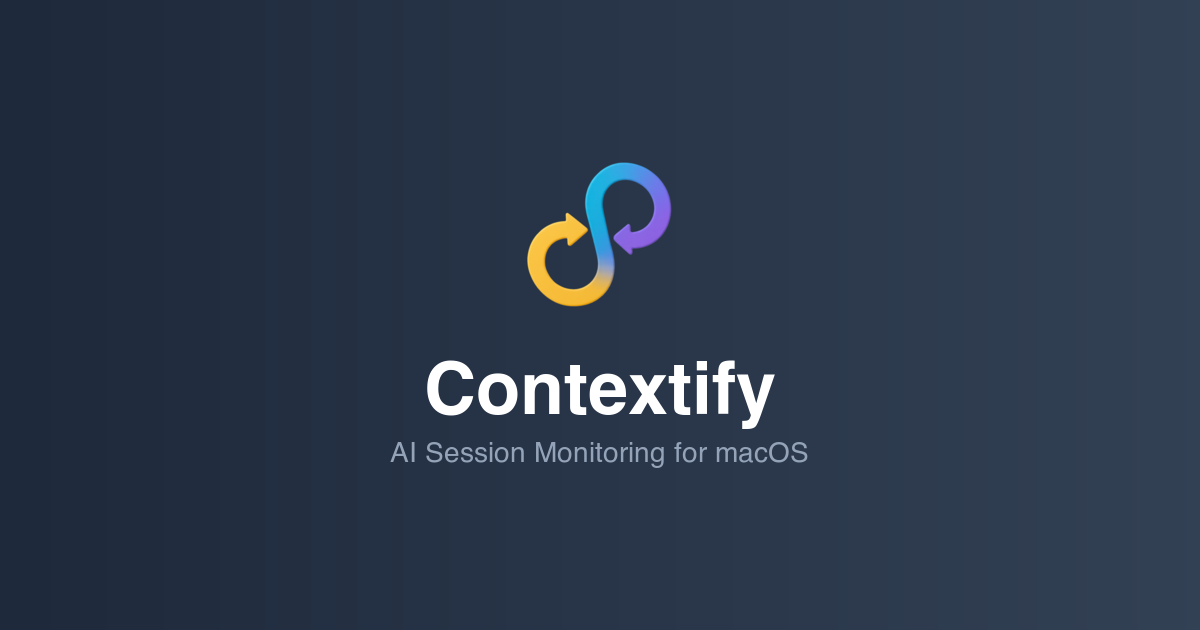
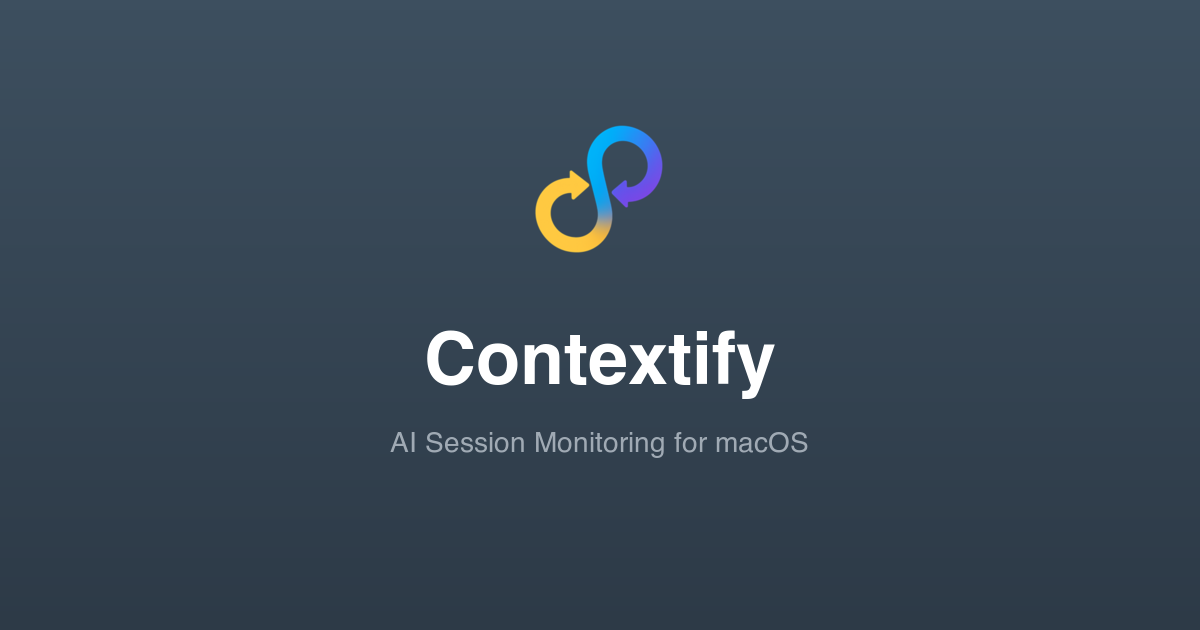
feat(brand): add v3 flat logomark as canonical source
- Add true 1024x1024 flat infinity logomark (infinity-1024.png)
- Regenerate all exports (16-512px) from new source
- Regenerate website assets (favicon, apple-touch-icon, og-banner)
- Update HISTORY.md with v3 entry, v2 now infinity-904-glass.png
- Update README.md to document both source files

Changed region(s): [[0.0, 0.0, 0.5858, 0.6333], [0.3083, 0.5127, 0.6783, 0.754], [0.4317, 0.181, 0.5858, 0.4825]]

diff --git a/build/design/brand/logomark/HISTORY.md b/build/design/brand/logomark/HISTORY.md
@@ -4,28 +4,45 @@ Tracks visual treatments of the Contextify logomark (infinity symbol).
 
 ## Current Version
 
-**Version:** 2
-**Date:** 2025-12-03
-**Hash (1024px):** `b08bfc01a2a6e5e78807e807af64ba26`
+**Version:** 3
+**Date:** 2025-12-04
+**Hash (1024px):** `c55a5d629af64c062a4948faa2e61705`
 
 **Description:**
 - Infinity symbol rotated 45° clockwise (rising to upper-right)
 - Yellow-to-cyan-to-purple gradient
+- Flat style (no glass/3D effects)
+- True 1024x1024 canvas
 - Transparent background
 
 ---
 
 ## Version History
 
-### v2 - Tilted (Current)
+### v3 - Flat (Current)
+
+**Date:** 2025-12-04
+**Hash:** `c55a5d629af64c062a4948faa2e61705`
+**Dimensions:** 1024x1024
+**File:** `source/infinity-1024.png`
+
+**Changes from v2:**
+- Removed glass/3D effects for flat appearance
+- Resized to true 1024x1024 canvas
+
+**Rationale:** Clean flat style for better scaling and modern aesthetic.
+
+### v2 - Tilted Glass
 
 **Date:** 2025-12-03
 **Hash:** `b08bfc01a2a6e5e78807e807af64ba26`
-**Dimensions:** 904x904 (square canvas)
+**Dimensions:** 904x904
+**File:** `source/infinity-904-glass.png`
 
 **Changes from v1:**
 - Rotated 45° clockwise from horizontal
 - Canvas expanded to square to accommodate rotation
+- Glass/3D effect styling
 
 **Rationale:** More dynamic, ascending feel.
 

diff --git a/build/design/brand/logomark/README.md b/build/design/brand/logomark/README.md
@@ -9,8 +9,9 @@ logomark/
 ├── README.md           # This file
 ├── HISTORY.md          # Version history with hashes
 ├── source/
-│   ├── infinity.svg    # Vector source (TODO)
-│   └── infinity-1024.png  # High-res master
+│   ├── infinity-1024.png     # Canonical master (flat, true 1024x1024)
+│   ├── infinity-904-glass.png # Historical variant (904px, glass effect)
+│   └── infinity.svg          # Vector source (TODO)
 └── exports/
     ├── infinity-512.png
     ├── infinity-256.png
@@ -30,7 +31,8 @@ The logomark can be used:
 
 ## File Notes
 
-- **source/infinity-1024.png**: Uncompressed master (matches Icon Composer asset)
+- **source/infinity-1024.png**: Canonical master, flat style, true 1024x1024
+- **source/infinity-904-glass.png**: Historical variant with glass effect (904px)
 - **exports/*.png**: Compressed with `oxipng` for web/app use
 
 ## Regenerating Exports
@@ -45,7 +47,7 @@ done
 oxipng -o 4 --strip safe exports/infinity-*.png
 ```
 
-**Note:** Do not compress `source/infinity-1024.png` - keep it identical to the Icon Composer asset for hash consistency.
+**Note:** Do not compress `source/infinity-1024.png` to preserve hash consistency.
 
 ## TODO
 
